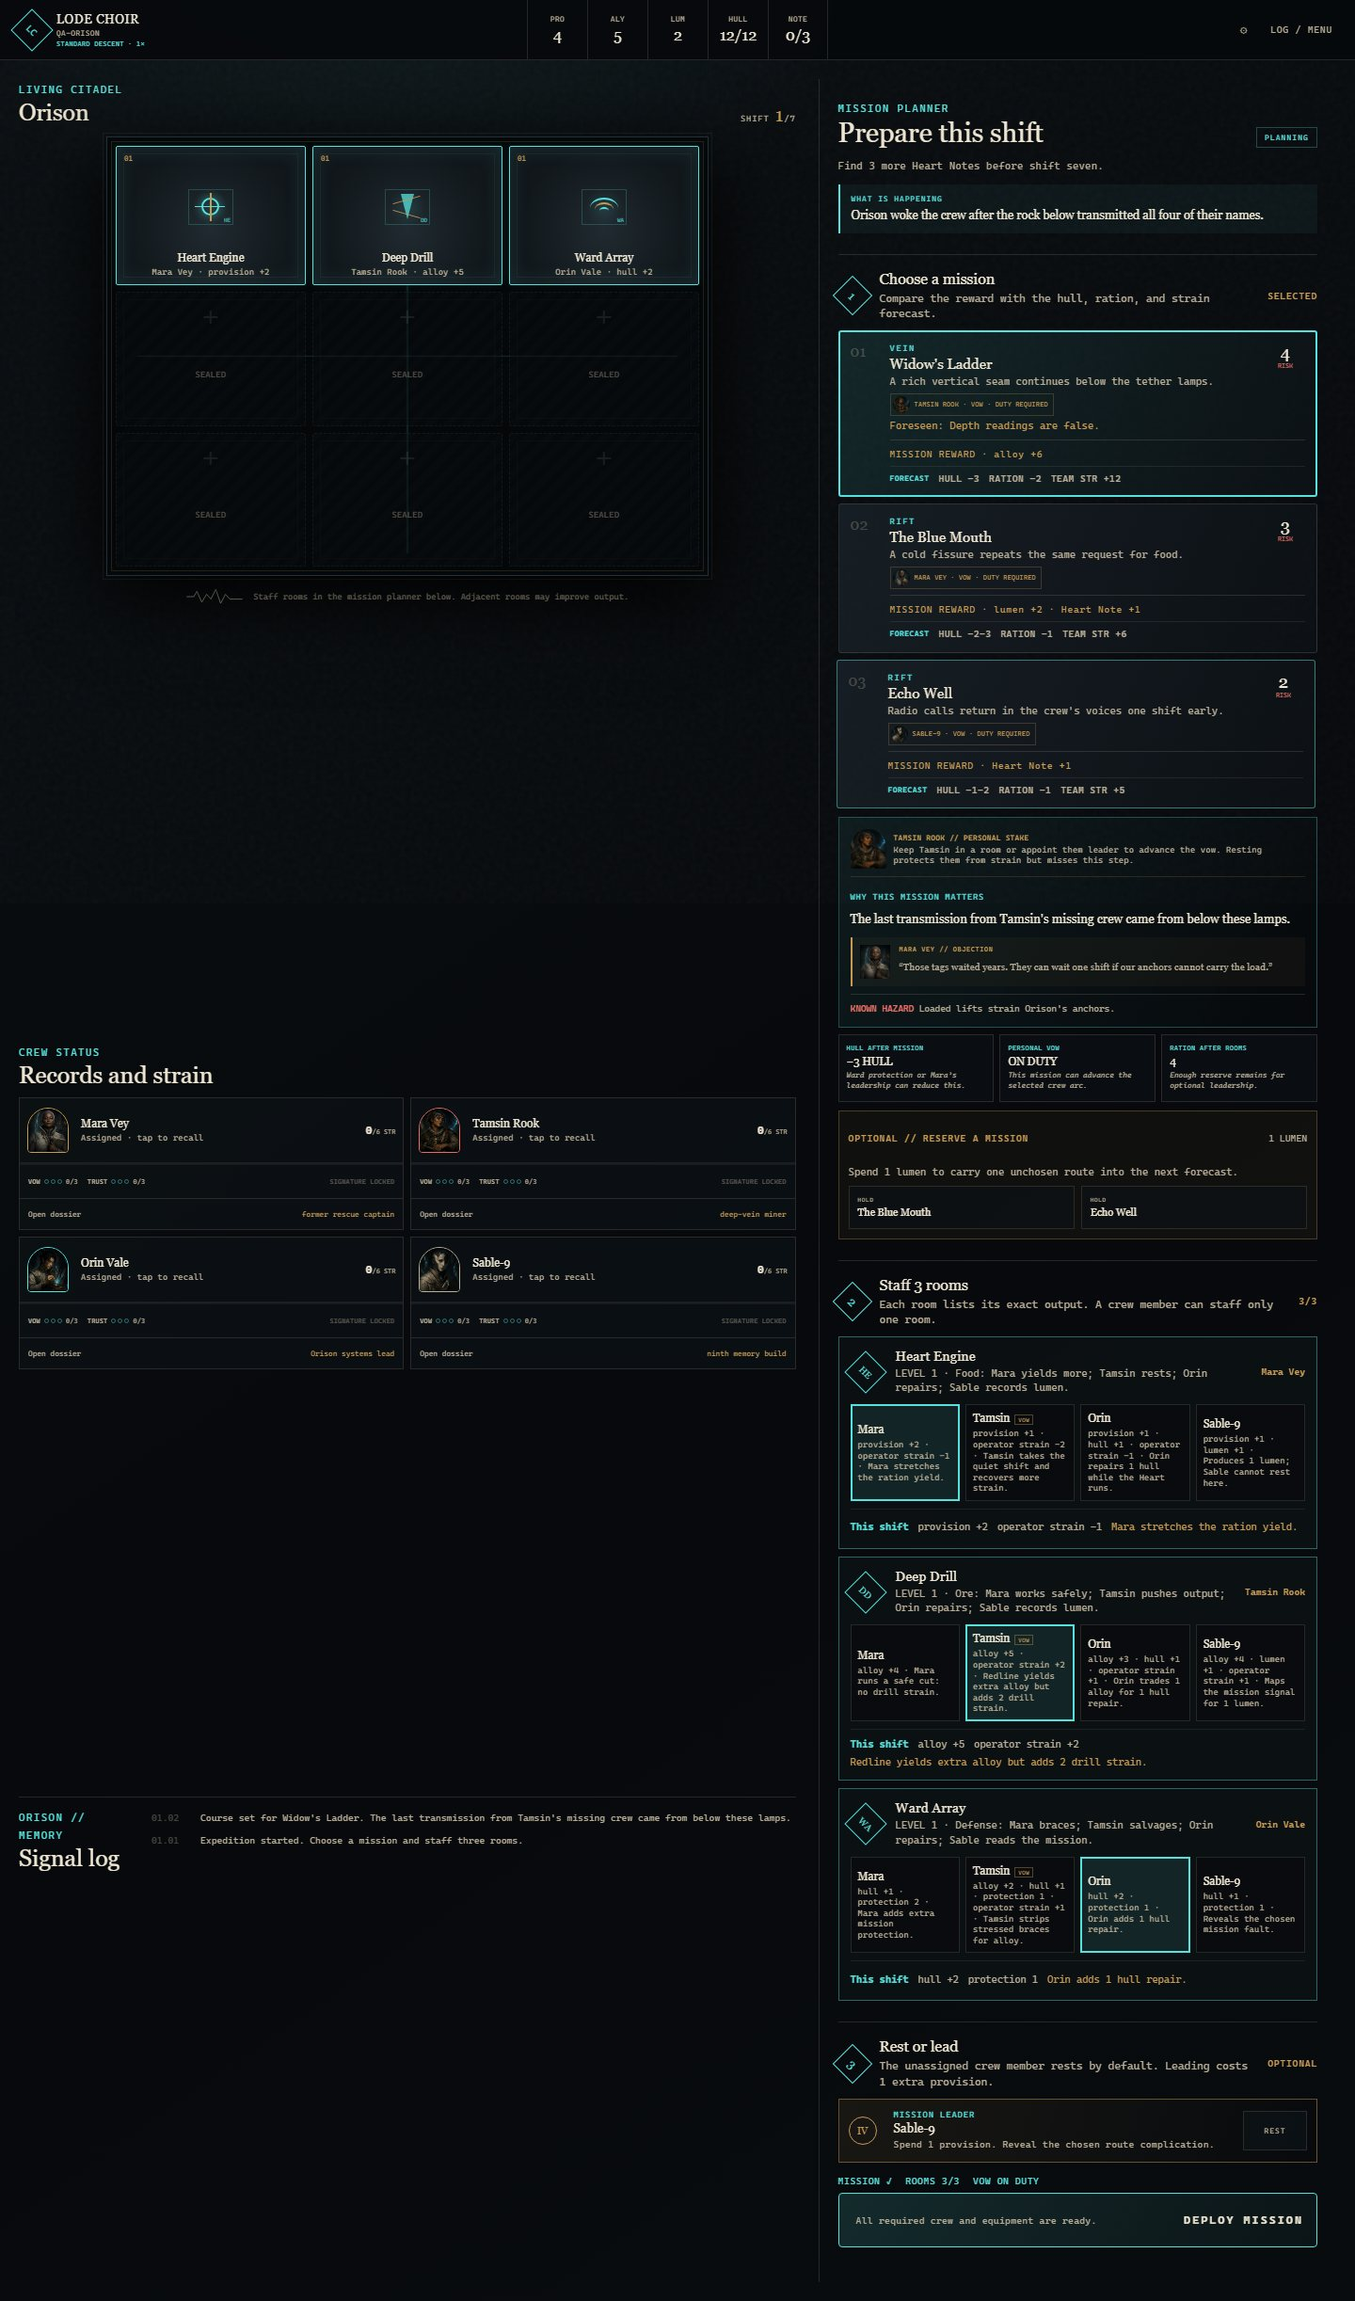
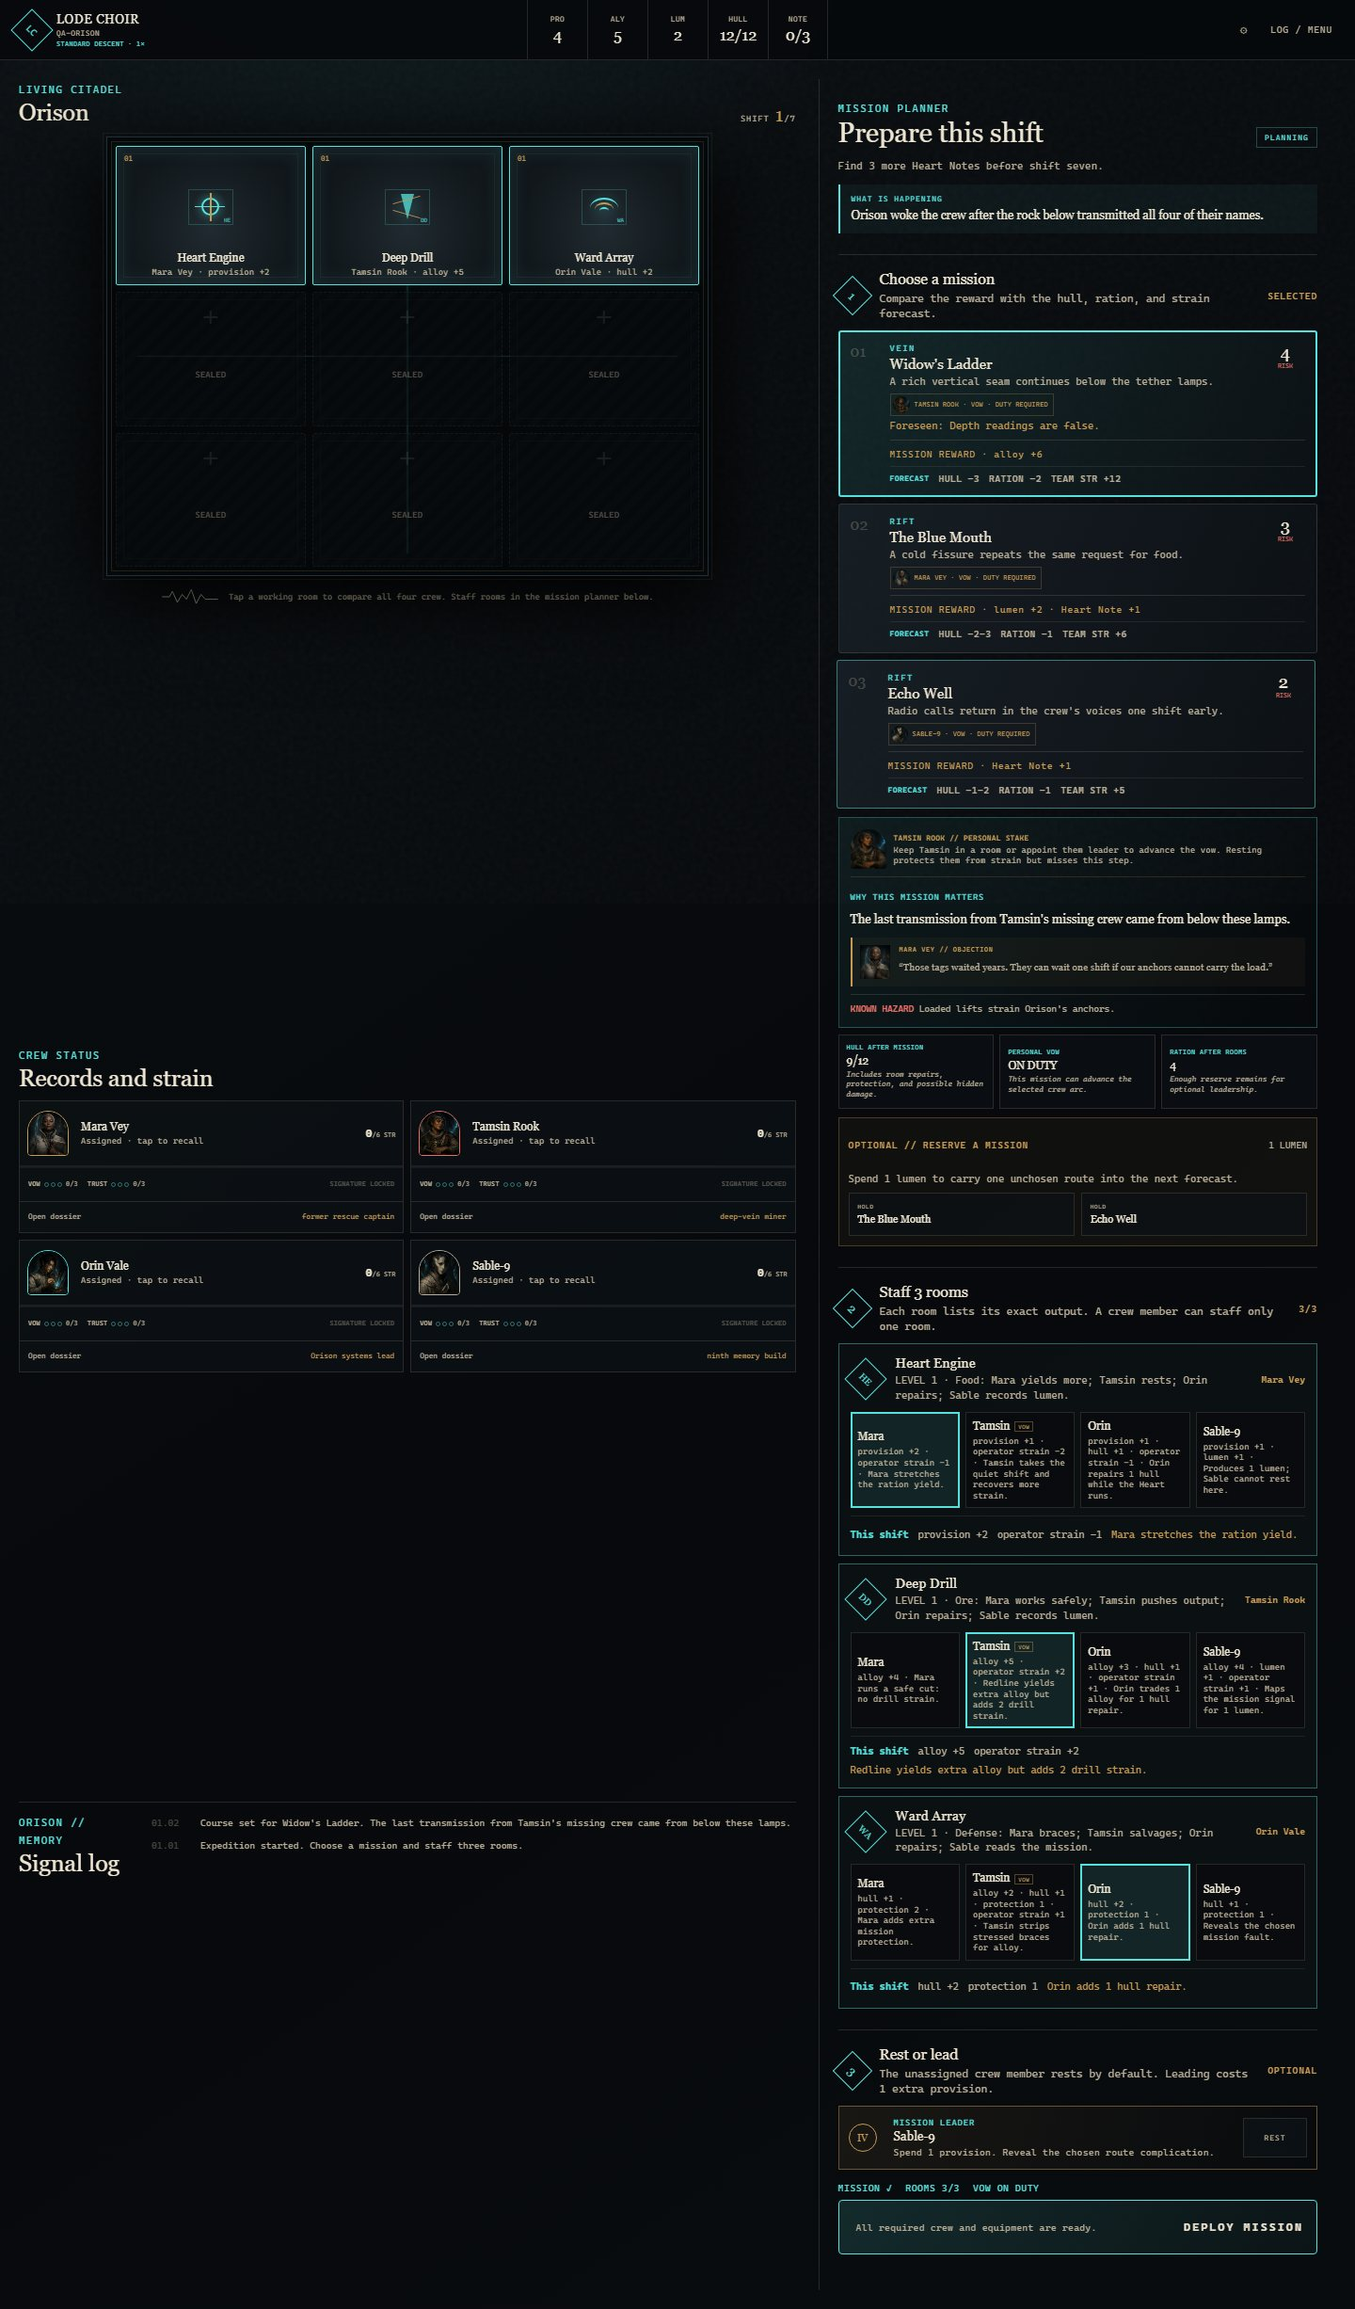
feat: clarify room choices and final stakes

diff --git a/apps/game/app/game-app.tsx b/apps/game/app/game-app.tsx
@@ -328,7 +328,11 @@ function Citadel({ view, selectedCrew, selectedBuildSlot, onRoom, onEmpty }: {
       </div>
       <div className="citadel-caption">
         <ToneMark active={Boolean(selectedCrew)} />
-        <span>{selectedCrew ? 'Choose a room for the selected crew member.' : 'Staff rooms in the mission planner below. Adjacent rooms may improve output.'}</span>
+        <span>{selectedCrew
+          ? 'Choose a room for the selected crew member.'
+          : view.state.phase === 'development'
+            ? 'Choose a sealed chamber for new construction, or tap a working room to inspect or upgrade it.'
+            : 'Tap a working room to compare all four crew. Staff rooms in the mission planner below.'}</span>
       </div>
     </section>
   );
@@ -564,7 +568,7 @@ function RoutePanel({ view, chartStatus, onSelect, onReserve, onClearReservation
         <small><b>KNOWN HAZARD</b> {selectedRoute.definition.hazardText}</small>
       </aside>}
       {selectedRoute && <aside className="tactical-read" data-testid="tactical-read">
-        <span><small>HULL AFTER MISSION</small><b>{selectedRoute.forecast.hullDamageMax === 0 ? 'NO KNOWN LOSS' : `−${selectedRoute.forecast.hullDamageMin}${selectedRoute.forecast.hullDamageMax !== selectedRoute.forecast.hullDamageMin ? `–${selectedRoute.forecast.hullDamageMax}` : ''} HULL`}</b><em>{selectedRoute.forecast.hullDamageMax === 0 ? 'Current staffing covers the known hazard.' : 'Ward protection or Mara’s leadership can reduce this.'}</em></span>
+        <span className={selectedRoute.forecast.integrityAfterMin === 0 ? 'is-danger' : undefined}><small>HULL AFTER MISSION</small><b>{selectedRoute.forecast.integrityAfterMin}{selectedRoute.forecast.integrityAfterMax !== selectedRoute.forecast.integrityAfterMin ? `–${selectedRoute.forecast.integrityAfterMax}` : ''}/{view.maxIntegrity}</b><em>{selectedRoute.forecast.integrityAfterMin === 0 ? 'This plan can destroy Orison. Add protection or choose another mission.' : selectedRoute.forecast.hullDamageMax === 0 ? 'Current repairs and protection cover the known hazard.' : 'Includes room repairs, protection, and possible hidden damage.'}</em></span>
         <span><small>PERSONAL VOW</small><b>{focusOnDuty ? 'ON DUTY' : 'RESTING'}</b><em>{focusOnDuty ? 'This mission can advance the selected crew arc.' : 'Rest lowers strain but forfeits this mission’s vow step.'}</em></span>
         <span><small>RATION AFTER ROOMS</small><b>{projectedProvisions}</b><em>{projectedProvisions < 1 ? 'The plan cannot pay the mission cost.' : projectedProvisions < 3 ? 'Little reserve remains for leadership or later shifts.' : 'Enough reserve remains for optional leadership.'}</em></span>
       </aside>}
@@ -768,7 +772,11 @@ function FinalePanel({ view, onChoose }: { view: GameView; onChoose: (ending: En
       <span className="kicker">HEART-LODE // FINAL DECISION</span>
       <div className="heart-glyph" aria-hidden="true"><i /><i /><i /></div>
       <h2 id="finale-title">Decide what happens to the Heart-Lode</h2>
-      <p>The mine is open and the moon is responding. Choose the expedition's final order.</p>
+      <p>The mine is open. The three recovered phrases are answering through Orison's rooms.</p>
+      <div className="contract-terms" data-testid="finale-signal">
+        {HEART_NOTE_PHRASES.map((phrase, index) => <span key={phrase}><b>HEART NOTE {index + 1}</b>“{phrase}”</span>)}
+      </div>
+      <p>Choose the expedition's final order.</p>
       <div className="ending-choices">
         {(Object.entries(ENDINGS) as [EndingId, (typeof ENDINGS)[EndingId]][]).map(([id, ending]) => (
           <button type="button" key={id} onClick={() => onChoose(id)} data-testid={`ending-${id}`}>
@@ -1094,7 +1102,7 @@ function ManualPage({ onBack }: { onBack: () => void }) {
       <div className="manual-grid">
         <article><span>01 // PREMISE</span><h2>Listen before you mine</h2><p>Orison is a walking citadel inside the moon Vesper. Heart Notes are complete phrases recovered from a signal below the abandoned mine.</p></article>
         <article><span>02 // MISSION</span><h2>Choose one destination</h2><p>Each mission card shows rewards, hull damage, ration cost, and total crew strain. Risk is already included in the forecast.</p></article>
-        <article><span>03 // ROOMS</span><h2>Staff three rooms</h2><p>Choose one crew member for each room. The planner shows the exact output before you deploy.</p></article>
+        <article><span>03 // ROOMS</span><h2>Staff three rooms</h2><p>There is no universal specialist. Mara favors output and safety, Tamsin trades strain for material, Orin repairs hull, and Sable finds lumen or hidden faults. Tap a working room to compare all four exact outputs.</p></article>
         <article><span>04 // FOURTH CREW</span><h2>Rest or lead</h2><p>The unassigned crew member rests and removes two strain. A leader provides a listed bonus but costs one extra provision.</p></article>
         <article><span>05 // COSTS</span><h2>Watch hull and strain</h2><p>Every mission costs one provision. At four strain, pressure suppresses that crew member’s extra room-output bonus. Six strain causes a scar and makes them unavailable for the next shift.</p></article>
         <article><span>06 // WORKSHOP</span><h2>Improve Orison</h2><p>After shifts two and four, spend alloy to build one room, upgrade one room, or repair two hull. You may also save the alloy.</p></article>
@@ -1264,7 +1272,7 @@ function TitleScreen({ seed, hasSave, savePreview, notice, onSeed, onNew, onCont
           <button type="button" onClick={() => onNavigate('credits')}>Credits</button>
         </nav>
       </section>
-      <span className="build-stamp">ORISON BUILD // 0.3</span>
+      <span className="build-stamp">ORISON BUILD // 0.4</span>
     </main>
   );
 }

diff --git a/apps/game/tests/game.spec.ts b/apps/game/tests/game.spec.ts
@@ -61,6 +61,7 @@ async function openRunSettings(page: Page) {
 async function resumeRun(page: Page) {
   await page.getByRole('button', { name: /RESUME EXPEDITION/ }).click();
   await expect(page.getByTestId('citadel-grid')).toBeVisible();
+  await expect(page.locator('.citadel-caption')).toContainText('compare all four crew');
 }
 
 async function returnToTitle(page: Page) {
@@ -140,6 +141,7 @@ test('a new expedition explains Orison, Heart Notes, and every crew stake before
   await expect(page.locator('.staffing-crew-options .vow-duty')).toHaveCount(3);
   await expect(page.locator('.mission-checklist')).toContainText('VOW RESTING');
   await expect(page.getByTestId('tactical-read')).toContainText('HULL AFTER MISSION');
+  await expect(page.getByTestId('tactical-read').locator('span').first().locator('b')).toHaveText(/\d+(?:–\d+)?\/12/);
   await expect(page.getByTestId('tactical-read')).toContainText('RATION AFTER ROOMS');
   const focusName = (await page.locator('.route-card.is-selected .route-focus').innerText()).split(' · ')[0]!.trim();
   const focusId = ({ 'MARA VEY': 'mara', 'TAMSIN ROOK': 'tamsin', 'ORIN VALE': 'orin', 'SABLE-9': 'sable' } as const)[focusName as 'MARA VEY' | 'TAMSIN ROOK' | 'ORIN VALE' | 'SABLE-9'];
@@ -208,6 +210,20 @@ test('crew cards expose actionable vows, trust, pressure, and signatures', async
   await expect(card).toContainText('Holdfast: Mara adds 2 extra protection');
 });
 
+test('the tactical read warns when a selected mission can destroy Orison', async ({ page }) => {
+  await beginRun(page);
+  await page.evaluate(() => {
+    const state = window.__LODE_CHOIR__?.getState();
+    if (!state) throw new Error('Test hook unavailable.');
+    state.integrity = 1;
+    state.routeOffers[0]!.routeId = 'rift_red_quiet';
+    window.__LODE_CHOIR__?.command({ type: 'select_route', instanceId: state.routeOffers[0]!.instanceId });
+  });
+  await expect(page.getByTestId('tactical-read').locator('span').first()).toHaveClass(/is-danger/);
+  await expect(page.getByTestId('tactical-read').locator('span').first().locator('b')).toContainText('0/12');
+  await expect(page.getByTestId('tactical-read')).toContainText('This plan can destroy Orison');
+});
+
 test('built rooms open a visual inspector with level-specific crew tradeoffs', async ({ page }) => {
   await beginRun(page);
   await page.getByTestId('room-0').click();
@@ -235,6 +251,7 @@ test('built rooms open a visual inspector with level-specific crew tradeoffs', a
     window.__LODE_CHOIR__?.refresh();
   });
   await expect(page.getByTestId('room-3')).toHaveClass(/is-selected/);
+  await expect(page.locator('.citadel-caption')).toContainText('sealed chamber for new construction');
   await page.getByTestId('room-0').click();
   await expect(page.getByTestId('room-inspector')).toBeVisible();
   await page.getByRole('button', { name: 'Close room inspection' }).click();
@@ -354,8 +371,11 @@ test('deterministic hook can resolve a finale and begin the next inherited desce
     mara.loyalty = 3;
     mara.signatureUnlocked = true;
     mara.scar = 'The Heart-Lode answered in her own voice.';
-    window.__LODE_CHOIR__?.command({ type: 'choose_ending', endingId: 'harmonize' });
+    window.__LODE_CHOIR__?.refresh();
   });
+  await expect(page.getByTestId('finale-signal').locator('span')).toHaveCount(3);
+  await expect(page.getByTestId('finale-signal')).toContainText('ORISON, YOU CARRIED OUR DOOR WITH YOU');
+  await page.getByTestId('ending-harmonize').click();
   await expect(page.getByTestId('completion-panel')).toBeVisible();
   await expect(page.getByRole('heading', { name: 'Join the Choir' })).toBeVisible();
   await expect(page.getByRole('heading', { name: 'Join the Choir' })).toBeFocused();

diff --git a/packages/engine/src/engine.ts b/packages/engine/src/engine.ts
@@ -727,11 +727,16 @@ function forecastRoute(state: GameState, offer: RouteOffer): RouteForecast {
   const hiddenDamage = offer.hiddenComplication && !certainlyRevealed
     ? projectedDamage(state, offer, leader, false)
     : knownDamage;
+  const hullDamageMin = Math.min(knownDamage, hiddenDamage);
+  const hullDamageMax = Math.max(knownDamage, hiddenDamage);
+  const integrityAfterRooms = Math.min(maximumIntegrity(state), state.integrity + projectedRepair(state));
   return {
     rewards: projectedRouteRewards(state, offer, leader),
     heartNotes: projectedRouteHeartNotes(state, offer),
-    hullDamageMin: Math.min(knownDamage, hiddenDamage),
-    hullDamageMax: Math.max(knownDamage, hiddenDamage),
+    hullDamageMin,
+    hullDamageMax,
+    integrityAfterMin: Math.max(0, integrityAfterRooms - hullDamageMax),
+    integrityAfterMax: Math.max(0, integrityAfterRooms - hullDamageMin),
     provisionCost: leader ? 2 : 1,
     netCrewStrain: projectedNetStrain(state, offer, leader, certainlyRevealed || !offer.hiddenComplication),
   };

diff --git a/apps/game/app/styles.css b/apps/game/app/styles.css
@@ -378,6 +378,8 @@ h1, h2 { font-family: var(--serif); font-weight: 500; }
 .mission-story > small b { color: var(--danger-400); }
 .tactical-read { display: grid; grid-template-columns: repeat(3, 1fr); gap: 6px; margin: 7px 0; }
 .tactical-read > span { min-height: 72px; display: grid; align-content: center; gap: 3px; padding: 8px; border: 1px solid var(--quiet-line); background: rgba(13,18,22,.62); }
+.tactical-read > span.is-danger { border-color: var(--danger-400); background: rgba(229,111,102,.08); }
+.tactical-read > span.is-danger small, .tactical-read > span.is-danger b { color: var(--danger-400); }
 .tactical-read small { color: var(--vein-400); font-size: .44rem; letter-spacing: .06em; }
 .tactical-read b { font: .72rem var(--serif); }
 .tactical-read em { color: var(--bone-300); font-size: .5rem; line-height: 1.35; }

diff --git a/packages/engine/test/engine.test.ts b/packages/engine/test/engine.test.ts
@@ -164,6 +164,11 @@ test('combined room and mission forecasts match the resolved resource and hull t
     resolved.integrity,
     Math.max(0, Math.min(view.maxIntegrity, state.integrity + roomRepair) - selected.forecast.hullDamageMax),
   );
+  assert.equal(selected.forecast.integrityAfterMin, resolved.integrity);
+  assert.equal(
+    selected.forecast.integrityAfterMax,
+    Math.max(0, Math.min(view.maxIntegrity, state.integrity + roomRepair) - selected.forecast.hullDamageMin),
+  );
 });
 
 test('a personal mission advances its focus vow exactly once', () => {

diff --git a/packages/engine/src/types.ts b/packages/engine/src/types.ts
@@ -77,6 +77,8 @@ export interface RouteForecast {
   heartNotes: number;
   hullDamageMin: number;
   hullDamageMax: number;
+  integrityAfterMin: number;
+  integrityAfterMax: number;
   provisionCost: number;
   netCrewStrain: number;
 }

diff --git a/PARKING_LOT.md b/PARKING_LOT.md
@@ -25,3 +25,12 @@ Reversible decisions recorded during autonomous development. These do not block 
   routes with risk three or higher. The first 10-hull/all-fault prototype pushed matched
   balanced chart-aware wins below the locked viability floor; the revised rule keeps
   information pressure legible without making the middle policy nearly futile.
+- **Heart Note canon:** keep the three decoded signal lines fixed and numbered across
+  routes so the goal has a coherent reveal. Route-specific or randomized Note text stays
+  parked until it can preserve ending ambiguity and exact replay without obscuring the arc.
+- **Crew pressure:** at four strain, suppress only extra room-output talents. A prototype
+  that also removed the room's base level collapsed balanced wins from 122/500 to 25/500;
+  keep the lighter rule unless playtests show pressure is still too easy to ignore.
+- **Mission disagreement:** every mission keeps one authored objection from a second crew
+  member, but objections do not veto selection or create another currency. Add mechanical
+  dissent only if players understand the present survival-versus-vow choice first.

diff --git a/README.md b/README.md
@@ -5,6 +5,8 @@ living citadel Orison through a singing moon.
 
 **Play online:** https://dsschiff.github.io/lode-choir/
 
+**Current release:** Orison build 0.4
+
 ## Commands
 
 ```powershell
@@ -38,7 +40,8 @@ a transparent 1.25× score. The completion ledger exposes every score component 
 copy a seed-linked expedition report for playtest comparison.
 Personal missions now require their named crewmember to staff a chamber or lead the
 expedition: resting prevents strain but forfeits that vow step. The planner updates its
-hull, vow, and post-room ration forecast as assignments change. Victories close with a
+actual surviving-hull range, vow, and post-room ration forecast as assignments change,
+including room repair and hidden-fault uncertainty. Victories close with a
 structured four-character coda whose text responds to each crew arc instead of one
 undifferentiated epilogue paragraph.
 Each of the sixteen missions also presents one authored objection from a second crew

diff --git a/docs/VALIDATION.md b/docs/VALIDATION.md
@@ -140,7 +140,8 @@ and 696,000 reconstructed replays passed.
   shared URL initialization with invalid-mode fallback, a mobile-accessible in-run
   journal/menu with crew, mission-discovery, and persistent choice-aftermath recap,
   on-duty personal-vow gating,
-  live tactical-read updates, structured four-crew ending codas, Chronicle progression counts,
+  live tactical-read updates with engine-derived post-repair hull ranges, structured
+  four-crew ending codas, Chronicle progression counts,
   Chronicle rematch preparation, a complete seven-shift visible-control win, and test hooks.
   A stubbed Web Audio contract additionally verifies the ambient voices start with an
   active run, stop in menus, remain stopped while muted, resume after unmuting, and stop
